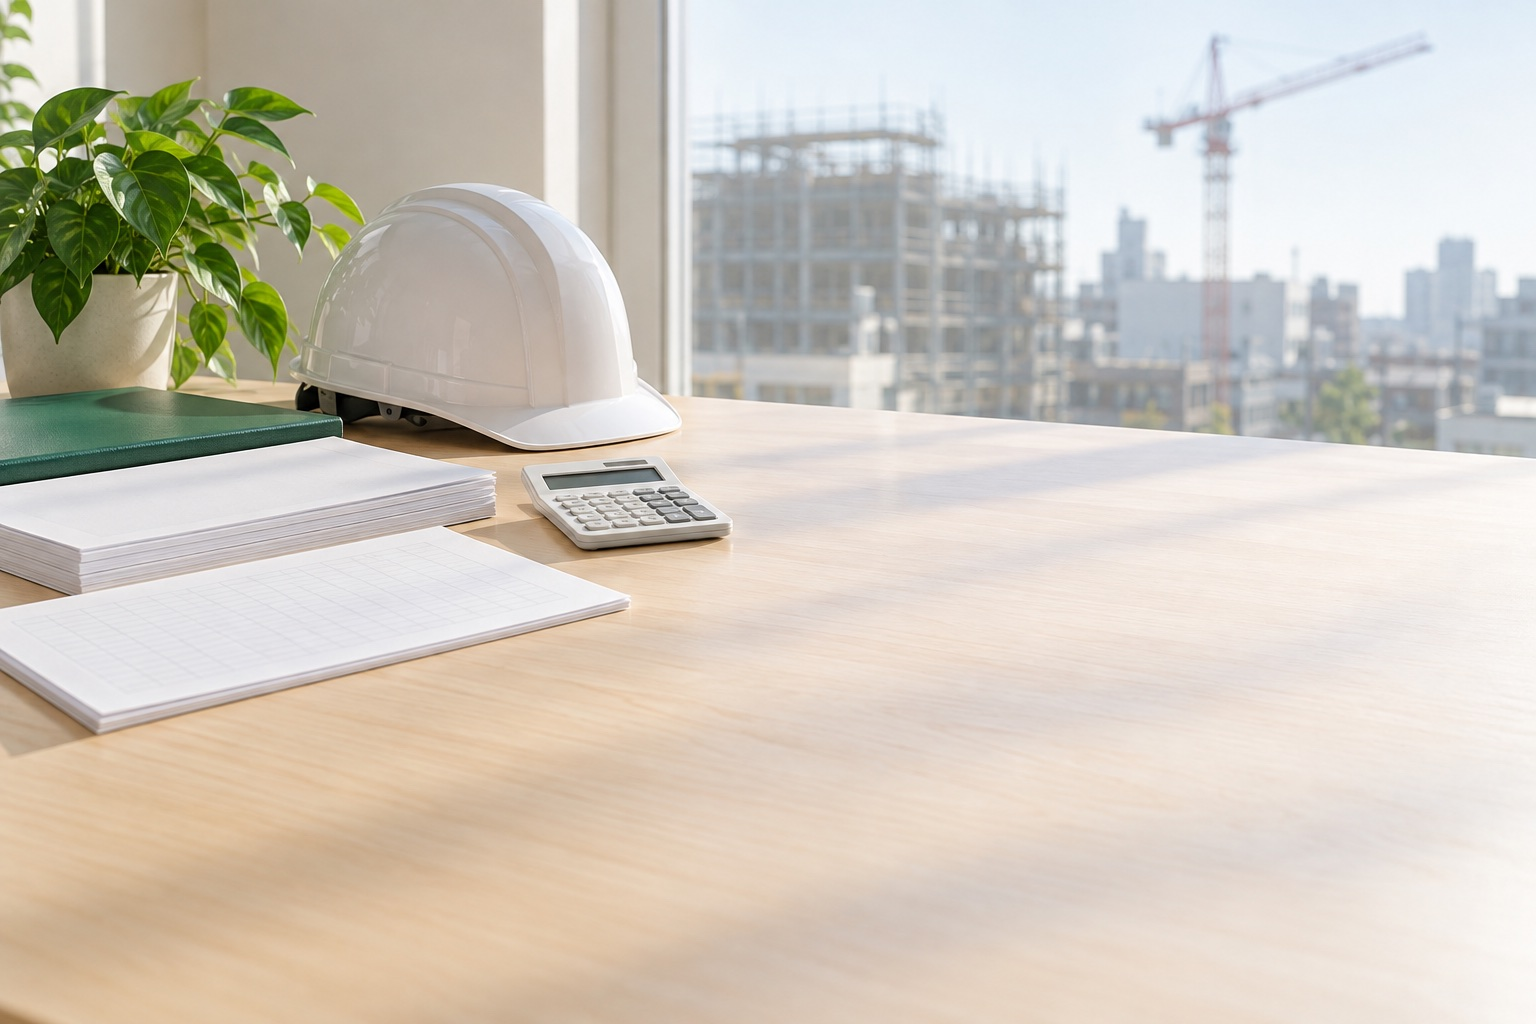
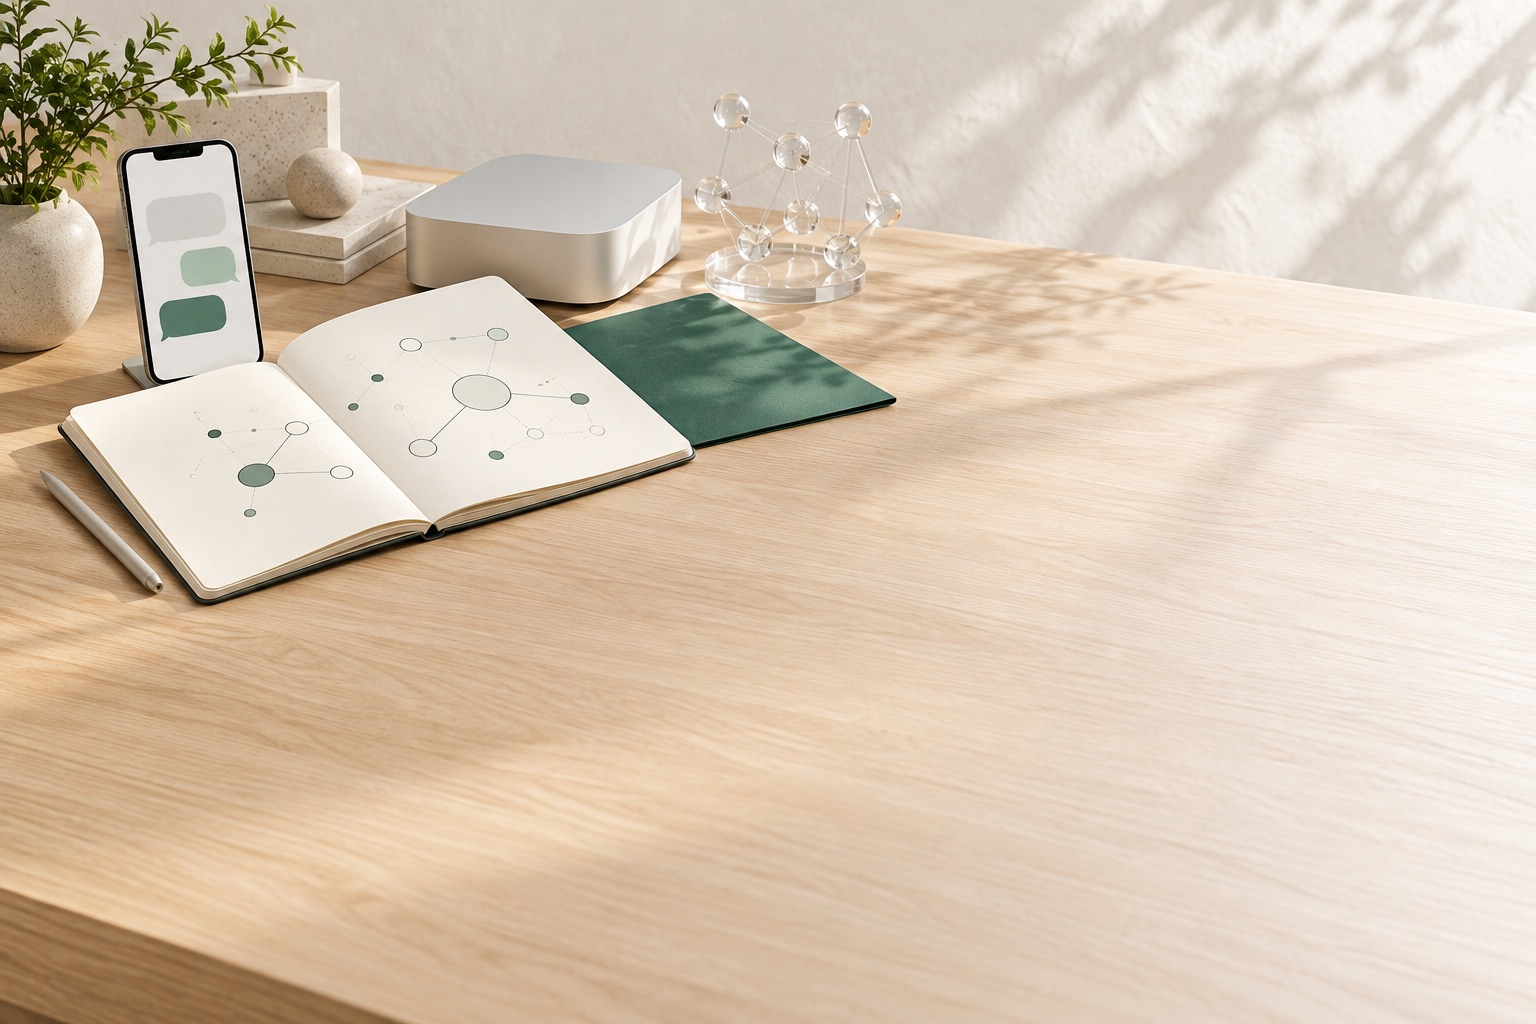
ヒーロー画像をAI設計アトリエへ再設計

diff --git a/index.html b/index.html
@@ -269,7 +269,7 @@
   </header>
 
   <main>
-    <!-- 見出し：左に文、右に建設会社の事務所写真と約30秒のデモ（無音の自動再生。クリックで大きく） -->
+    <!-- 見出し：左に文、右にAI設計アトリエの写真と約30秒のデモ（無音の自動再生。クリックで大きく） -->
     <section class="hero">
       <div class="wrap hero-grid">
         <div class="hero-text">
@@ -284,7 +284,7 @@
         </div>
         <div class="hero-media">
           <div class="hero-stage">
-            <img data-hero-stage src="./assets/images/business/hero-stage.jpg" width="1536" height="1024" fetchpriority="high" decoding="async" alt="明るい建設会社の事務所。木の机に白いヘルメット、白紙の帳票、電卓と深緑のファイルが並び、窓の外に建設現場が見える" />
+            <img data-hero-stage src="./assets/images/business/hero-stage.jpg" width="1536" height="1024" fetchpriority="high" decoding="async" alt="AI設計アトリエの机。チャット画面のスマートフォン、設計ノート、透明なネットワーク模型と小型コンピューターが並ぶ" />
             <div class="vf" data-demo data-title="経費システム（架空の会社「サンプル建設」）" data-src-webm="./assets/demo/demo-all.webm" data-src-mp4="./assets/demo/demo-all.mp4">
               <div class="bar"><i></i><i></i><i></i><span class="t">経費システム（架空の会社「サンプル建設」）</span></div>
               <div class="scr"><video muted playsinline loop preload="none" width="1600" height="900" poster="./assets/demo/shot-f1-dashboard-list.webp" aria-label="案件ごとの経費と利益、一般経費と現金出納帳、手書きの見積書の読み取り、会計ソフトへの出力を、続けて操作している画面">
